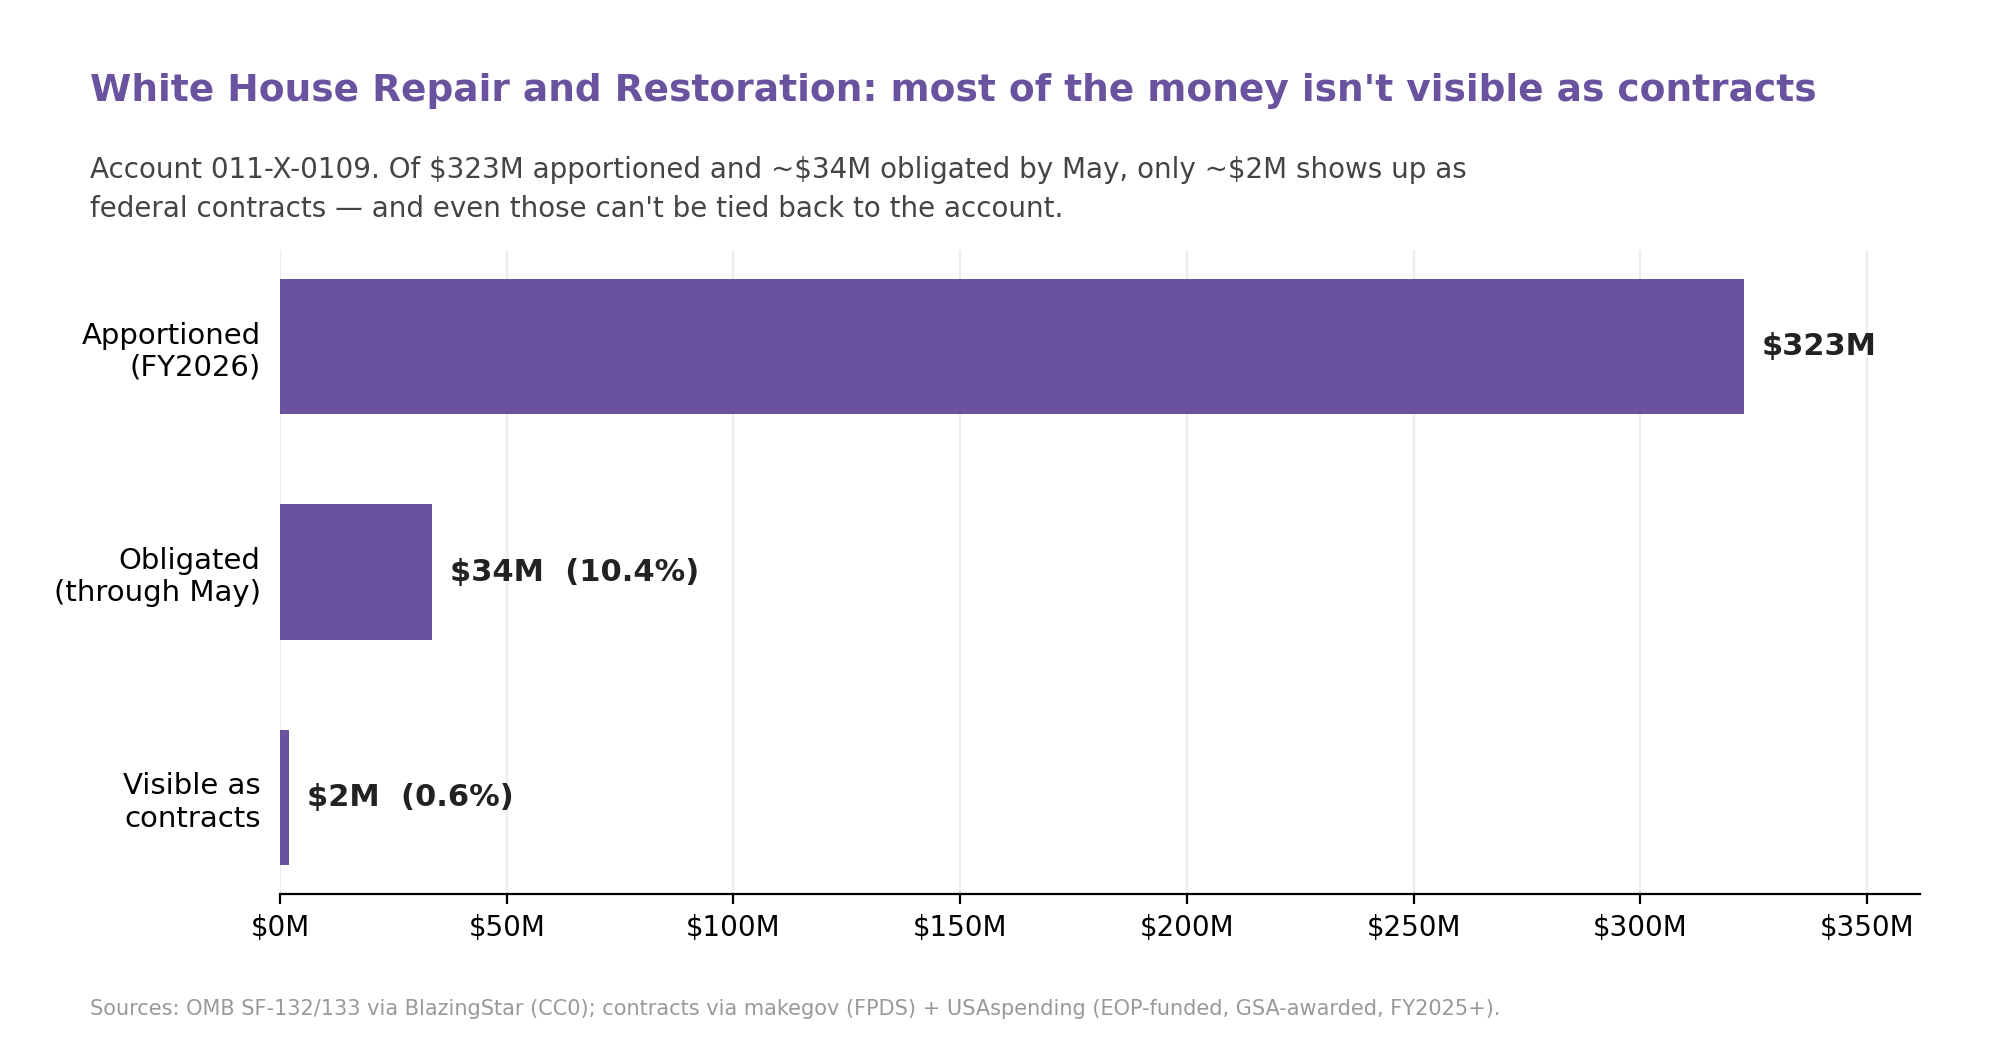
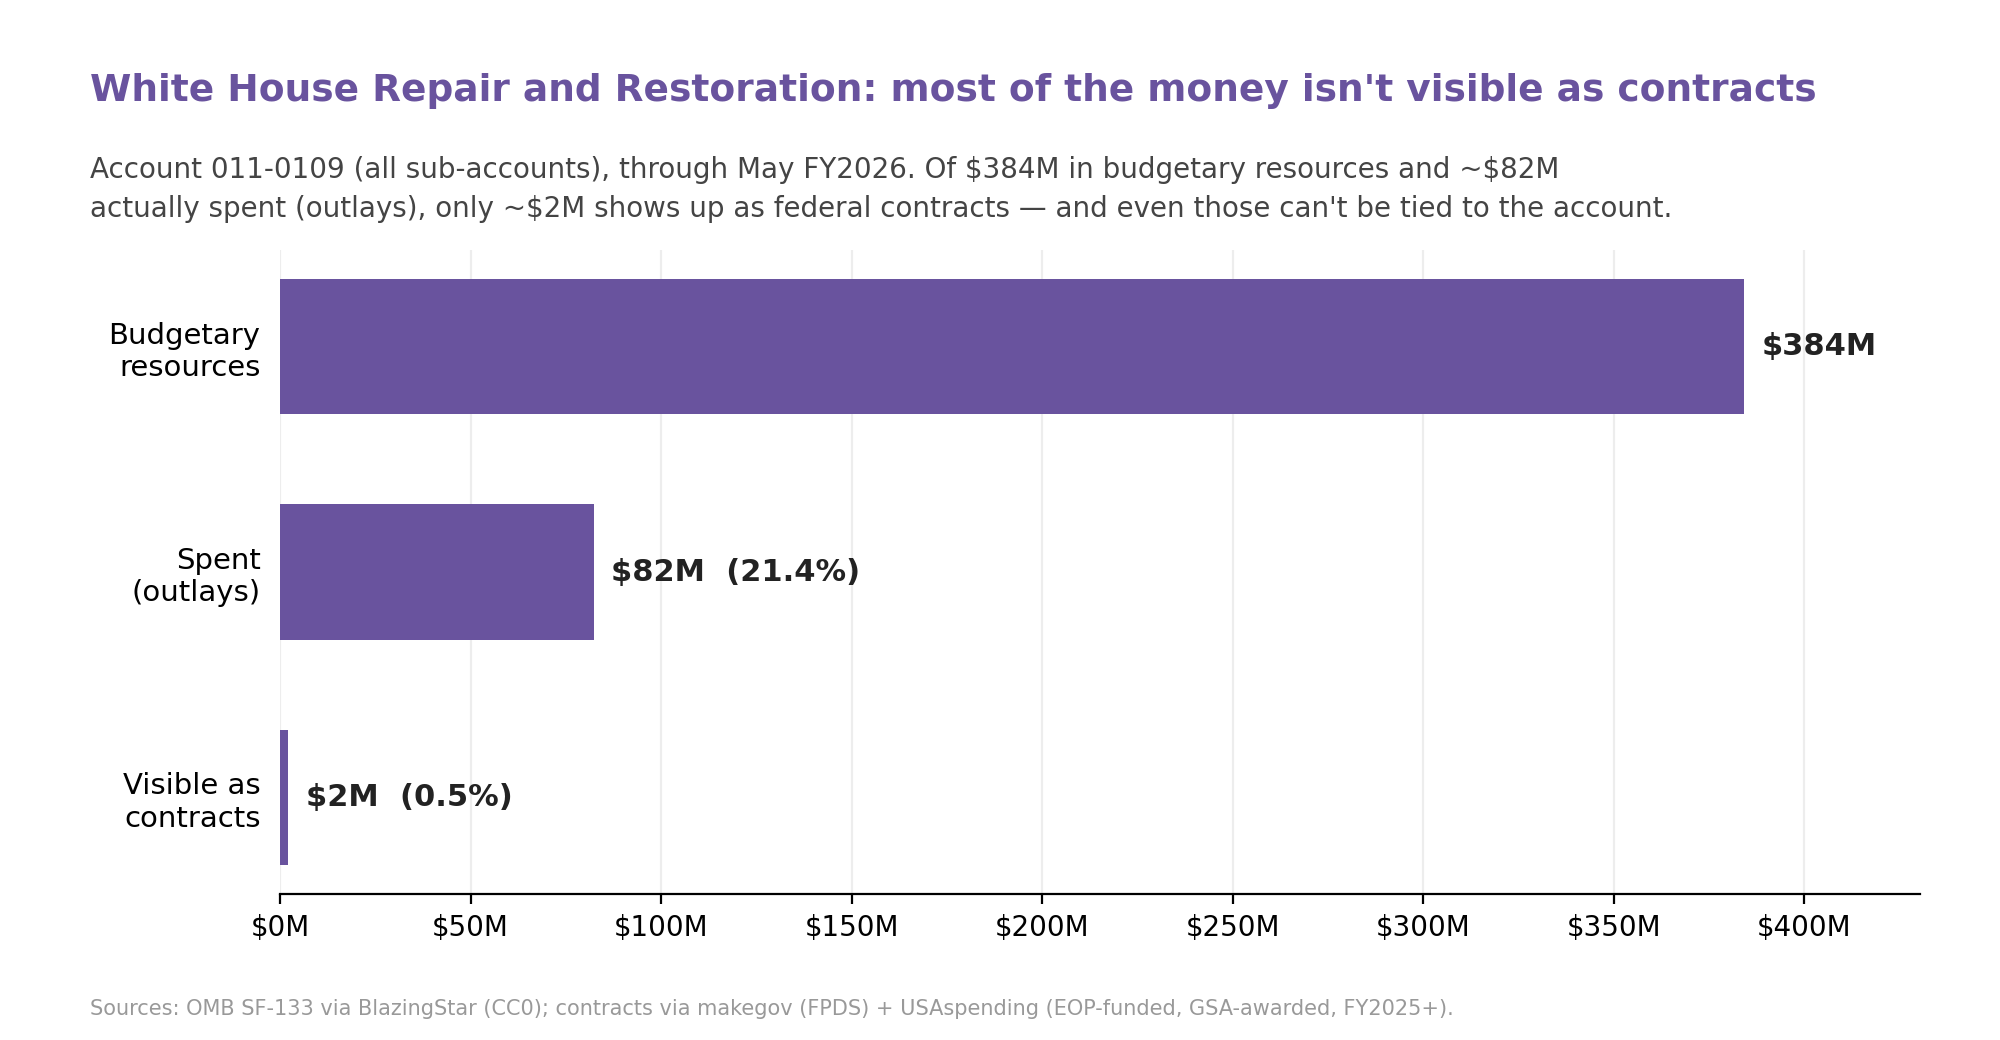
Fix obligated-vs-spent: funnel now shows outlays; two-ways labeled as sources
"Execution" was reading as "spent" — but those panels show budgetary resources
(where money comes from), not outlays. Fixes:
- Two-ways chart: panels relabeled "Apportionment (SF-132)" / "Execution report
  (SF-133)"; subtitle now says "where the budgetary resources come from — not
  what's been spent."
- Funnel: replaced the "obligated $34M" bar with actual outlays — budgetary
  resources $384M -> spent (outlays) $82M -> visible as contracts $2M (account
  0109 family, through May). Notebook prose + README updated to distinguish
  obligated (committed) from outlays (spent).

diff --git a/README.md b/README.md
@@ -135,8 +135,9 @@ via [makegov](https://www.makegov.com/)'s Tango API and checks the linkage in
 What it finds: GSA awards White House-complex renovation work, funded by EOP —
 e.g. a $635K bathroom renovation at 712 Jackson Place, a $418K feasibility study,
 a $22K West Wing chandelier install. But those visible contracts total only
-**~$2M**, against ~$54M the account had obligated by May and $323M apportioned —
-so most of the money doesn't show up as trackable contracts at all. And the
+**~$2M**, against the ~$82M the account *actually spent* (outlays) by May and
+$384M in budgetary resources — so most of the money doesn't show up as trackable
+contracts at all. And the
 award's account-level linkage in USAspending is empty (FPDS carries no Treasury
 account), so even these can't be rigorously tied back to the `011-0109` account.
 The budget side and the contract side are both public; the join between them